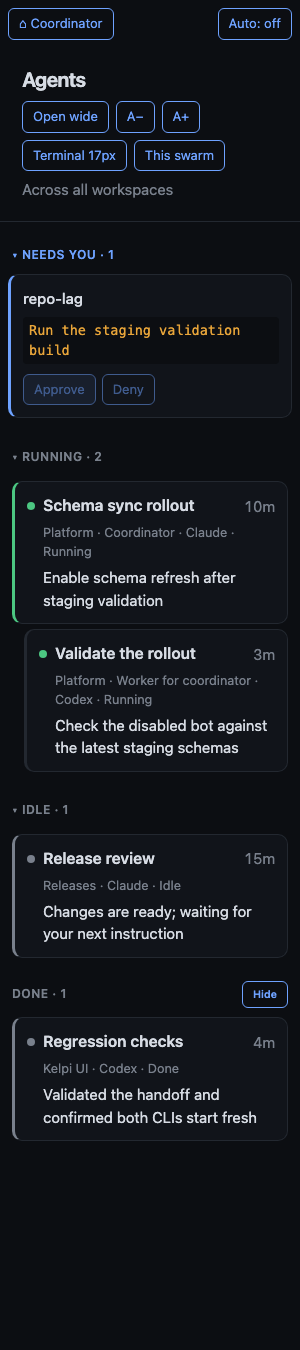
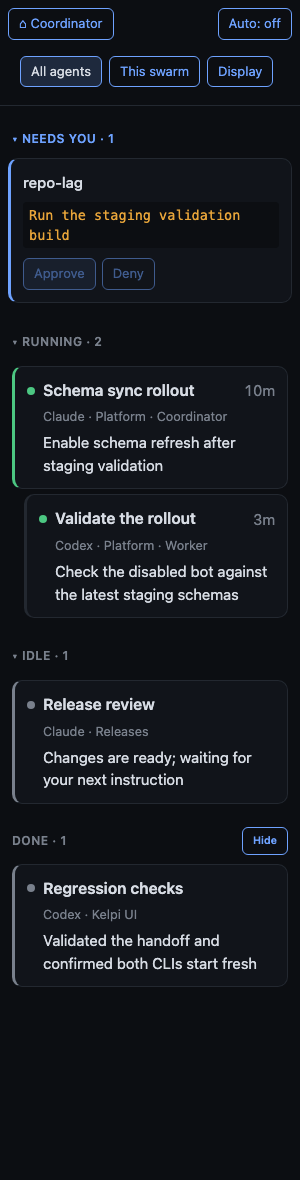
Simplify agent controls and fix panel update races

diff --git a/ui/sidebar/app.js b/ui/sidebar/app.js
@@ -11,21 +11,23 @@
 
     let textSize = 15;
     try { const saved = Number(window.localStorage?.getItem('swarm-agent-text-size')); if (saved >= 13 && saved <= 20) textSize = saved; } catch { /* storage can be unavailable */ }
+    const currentPreferences = () => L.displayPreferences({ agentTextSize: textSize, ...ui });
     const PREFERENCES_KEY = 'agents.display-preferences';
     let preferenceSave = Promise.resolve();
     function savePreferences() {
-        const prefs = { agentTextSize: textSize, directory: ui.directory !== false, collapsedSections: ui.collapsedSections || [], doneOpen: !!ui.doneOpen };
+        const prefs = currentPreferences();
         if (!api.context?.paneID && typeof api.storage?.set === 'function') {
             preferenceSave = preferenceSave.catch(() => {}).then(() => api.storage.set(PREFERENCES_KEY, prefs));
-            void preferenceSave.catch(() => {});
-        } else if (typeof api.setState === 'function') void api.setState({ ...(api.state || {}), ...prefs }).catch(() => {});
+            void preferenceSave.catch(() => setNotice('Display options apply here but could not be saved.'));
+        } else if (typeof api.setState === 'function') void api.setState({ ...(api.state || {}), ...prefs }).catch(() => setNotice('Display options apply here but could not be saved.'));
         else try { window.localStorage?.setItem('swarm-agent-text-size', String(textSize)); } catch { /* optional legacy storage */ }
     }
     const questionDrafts = Object.create(null);
     let snapshot = null, receivedAtMs = Date.now();
     let ui = L.initialUI(false);
     let notice = '', noticeTimer = null, pointerActive = false, renderPending = false, busy = false, disposed = false;
-    let wideBusy = false;
+    let wideBusy = false, widePaneID = null;
+    let releaseTimer = null;
     let focusBusy = false, lastFocusPane = null, lastFocusAt = -Infinity;
     const disposers = [];
     const guard = L.createButtonGuard();
@@ -34,6 +36,7 @@
     let autoLog = null, autoLogLoading = false;
 
     const draw = () => {
+        if (disposed) return;
         if (pointerActive) { renderPending = true; return; }
         renderPending = false;
         const nowMs = Date.now();
@@ -73,6 +76,7 @@
         }
     }
     const setNotice = text => {
+        if (disposed) return;
         notice = text;
         clearTimeout(noticeTimer);
         if (text) noticeTimer = setTimeout(() => { notice = ''; draw(); }, 8000);
@@ -103,6 +107,7 @@
     }
 
     function adopt(next) {
+        if (disposed) return;
         const accepted = L.acceptSnapshot(snapshot, next);
         if (accepted === snapshot) return;
         snapshot = accepted; receivedAtMs = Date.now();
@@ -135,7 +140,9 @@
     let activeWorkspaceID = null;
 
     async function loadState() {
+        if (disposed) return;
         const result = await api.commands.execute(`${L.CMD}get-state`, activeWorkspaceID ? { workspaceID: activeWorkspaceID } : {});
+        if (disposed) return;
         if (result && result.ok && result.snapshot) adopt(result.snapshot);
         else setNotice(L.describeResult('Load', result).message);
     }
@@ -173,32 +180,45 @@
     const handlers = {
         onTerminalSize: size => { void run('Terminal text', { command: `${L.CMD}agent-appearance`, args: { size } }); },
         onFocusAgent: async paneID => {
-            if (focusBusy || (lastFocusPane === paneID && Date.now() - lastFocusAt < 400)) return;
+            if (disposed || focusBusy || (lastFocusPane === paneID && Date.now() - lastFocusAt < 400)) return;
             focusBusy = true; lastFocusPane = paneID; lastFocusAt = Date.now();
             try {
                 if (typeof api.ui?.reveal !== 'function') { setNotice('This Kelpi cannot reveal a terminal from Agents.'); return; }
                 ui = { ...ui, selectedPaneID: paneID }; draw();
                 await api.ui.reveal(paneID);
+                if (disposed) return;
                 if (typeof api.layout?.zoom !== 'function') { setNotice('Use Kelpi’s pane zoom control to focus this terminal.'); return; }
                 let native;
                 try { native = await api.snapshot?.(); } catch { setNotice('Terminal opened; use its native zoom control because the layout could not be read.'); return; }
+                if (disposed) return;
                 const workspace = (native?.state?.workspaces || native?.workspaces || []).find(w => [...(w.panes || []), ...(w.parkedPanes || [])].some(p => p.id === paneID));
                 if (!workspace) { setNotice('Terminal opened; use its native zoom control on this Kelpi version.'); return; }
                 const zoomed = workspace.zoomedPaneID ?? workspace.zoomed_pane_id;
                 if (workspace && workspace.panes.length <= 1) { setNotice('This workspace already has one terminal.'); return; }
                 if (zoomed && zoomed !== paneID) await api.layout.zoom(zoomed);
+                if (disposed) return;
                 const result = await api.layout.zoom(paneID);
                 if (result?.zoomedPaneID === null) setNotice('Split layout restored.');
             } catch (error) { setNotice(`Focus: ${error.message}`); }
             finally { focusBusy = false; }
         },
-        onDirectory: () => { ui = { ...ui, directory: ui.directory === false }; ui = L.reconcile(ui, L.agentSnapshot(snapshot, ui)); savePreferences(); draw(); },
+        onScope: all => { if ((ui.directory !== false) === all) return; ui = { ...ui, directory: all }; ui = L.reconcile(ui, L.agentSnapshot(snapshot, ui)); savePreferences(); draw(); },
+        onDisplay: () => { ui = L.markLayout({ ...ui, displayOpen: !ui.displayOpen }, Date.now()); draw(); },
         onAgentSelect: paneID => { const row = snapshot?.agents?.find(w => w.paneID === paneID); if (row?.paneClosed) { void openWorker(paneID); return; } ui = L.setRailFocused({ ...ui, selectedPaneID: paneID }, true, Date.now()); draw(); reveal(paneID, 'Agent'); },
         onOpenWide: async () => {
-            if (wideBusy) return;
+            if (wideBusy || disposed) return;
             if (typeof api.openView !== 'function') { setNotice('Open Agents from the pane view picker for a wider view.'); return; }
             wideBusy = true;
-            try { await api.openView('local.swarm-view.rail', { ...(api.context?.workspaceID ? { workspaceID: api.context.workspaceID } : {}), focus: true, state: { agentTextSize: textSize, directory: ui.directory !== false, collapsedSections: ui.collapsedSections || [], doneOpen: !!ui.doneOpen } }); }
+            try {
+                if (widePaneID) {
+                    const host = await api.snapshot();
+                    if (disposed) return;
+                    if ((host?.state?.workspaces || []).some(workspace => [...(workspace.panes || []), ...(workspace.parkedPanes || [])].some(pane => pane.id === widePaneID))) { await api.ui.reveal(widePaneID); return; }
+                    widePaneID = null;
+                }
+                const opened = await api.openView('local.swarm-view.rail', { ...(api.context?.workspaceID ? { workspaceID: api.context.workspaceID } : {}), focus: true, state: currentPreferences() });
+                widePaneID = opened?.paneID || null;
+            }
             catch (error) { setNotice(`Open wide: ${error.message}`); }
             finally { wideBusy = false; }
         },
@@ -257,7 +277,6 @@
             ui = { ...ui, closeAsk: null }; draw(); void run('Stop', { command: `${L.CMD}close-worker`, args: { paneID } });
         },
         // ✕ "Remove": a done worker is closed in one click (nothing is running); a closed pane just leaves the rail.
-        onClose: paneID => { void run('Remove', { command: `${L.CMD}close-worker`, args: { paneID } }); },
         onAttention: (kind, item) => { if (L.layoutLocked(ui, Date.now())) return; void run(kind, L.attentionEffect(kind, item)); },
         // A card's command: click (or Enter) shows the whole thing, click again shortens it. Everything below moves, so
         // Approve and Deny are locked for a moment (the second click of a double-click lands on nothing).
@@ -313,6 +332,7 @@
         if (changed && !ui.railFocused) draw();
     }
     function onWindowBlur() {
+        releasePointer();
         ui = L.noteBlur(ui, Date.now());
         if (Number.isFinite(ui.blurAt)) { clearTimeout(blurTimer); blurTimer = setTimeout(checkBlur, L.BLUR_GRACE_MS + 10); }
     }
@@ -344,14 +364,20 @@
 
     async function boot() {
         await api.ready;
+        if (disposed) return;
         let preferences = api.state || {};
         if (!api.context?.paneID && typeof api.storage?.get === 'function') {
-            try { const saved = await api.storage.get(PREFERENCES_KEY); if (saved && typeof saved === 'object' && !Array.isArray(saved)) preferences = { ...saved, ...preferences }; } catch { /* Optional preference storage. */ }
+            let deadline;
+            try {
+                const saved = await Promise.race([api.storage.get(PREFERENCES_KEY), new Promise(resolve => { deadline = setTimeout(() => resolve(null), 1500); })]);
+                if (saved && typeof saved === 'object' && !Array.isArray(saved)) preferences = { ...saved, ...preferences };
+            } catch { /* Optional preference storage must not block the agent list. */ }
+            finally { clearTimeout(deadline); }
         }
-        if (Number.isInteger(preferences.agentTextSize) && preferences.agentTextSize >= 13 && preferences.agentTextSize <= 20) textSize = preferences.agentTextSize;
-        if (Array.isArray(preferences.collapsedSections)) ui = { ...ui, collapsedSections: preferences.collapsedSections.filter(k => ['needs', 'running', 'idle'].includes(k)) };
-        if (typeof preferences.doneOpen === 'boolean') ui = { ...ui, doneOpen: preferences.doneOpen };
-        if (typeof preferences.directory === 'boolean') ui = { ...ui, directory: preferences.directory };
+        if (disposed) return;
+        const display = L.displayPreferences({ agentTextSize: textSize, ...preferences });
+        textSize = display.agentTextSize;
+        ui = { ...ui, directory: display.directory, collapsedSections: display.collapsedSections, doneOpen: display.doneOpen };
         for (const name of SNAPSHOT_EVENTS) disposers.push(api.events.on(name, event => adopt(event.data)));
         disposers.push(api.events.on(FOCUS_EVENT, onFocusRequest));
         disposers.push(api.events.on('gap', () => { void loadState(); }));
@@ -378,12 +404,15 @@
     window.addEventListener('keydown', onKeydown);
     window.addEventListener('blur', e => { if (e.target === window) onWindowBlur(); });
     window.addEventListener('pointerdown', () => { pointerActive = true; ui = L.touch(ui, Date.now()); }, true);
-    window.addEventListener('pointermove', () => { if (ui.railFocused) ui = L.touch(ui, Date.now()); }, true);
-    const release = () => setTimeout(() => { pointerActive = false; if (renderPending) draw(); }, 0);
-    window.addEventListener('pointerup', release, true);
-    window.addEventListener('pointercancel', release, true);
+    function releasePointer() {
+        if (disposed || releaseTimer !== null) return;
+        releaseTimer = setTimeout(() => { releaseTimer = null; pointerActive = false; if (renderPending) draw(); }, 0);
+    }
+    window.addEventListener('pointermove', event => { if (pointerActive && event.buttons === 0) releasePointer(); if (ui.railFocused) ui = L.touch(ui, Date.now()); }, true);
+    for (const name of ['pointerup', 'pointercancel', 'lostpointercapture']) window.addEventListener(name, releasePointer, true);
+    document.addEventListener('visibilitychange', () => { if (document.visibilityState === 'hidden') releasePointer(); });
     const timer = setInterval(tick, 5000);
     const expiry = setInterval(expireTimers, 500);
-    window.addEventListener('pagehide', () => { disposed = true; clearInterval(timer); clearInterval(expiry); clearTimeout(unlockTimer); clearTimeout(noticeTimer); for (const off of disposers) off(); }, { once: true });
+    window.addEventListener('pagehide', () => { disposed = true; clearInterval(timer); clearInterval(expiry); clearTimeout(unlockTimer); clearTimeout(noticeTimer); clearTimeout(blurTimer); clearTimeout(releaseTimer); for (const off of disposers) off(); }, { once: true });
     void boot().catch(cause => setNotice(cause instanceof Error ? cause.message : String(cause)));
 })();

diff --git a/ui/sidebar/logic.js b/ui/sidebar/logic.js
@@ -53,6 +53,28 @@
         return base + extra;
     }
 
+    /** Only display settings belong in persisted view preferences. */
+    function displayPreferences(value = {}) {
+        if (!value || typeof value !== 'object' || Array.isArray(value)) value = {};
+        return {
+            agentTextSize: Number.isInteger(value.agentTextSize) && value.agentTextSize >= 13 && value.agentTextSize <= 20 ? value.agentTextSize : 15,
+            directory: value.directory !== false,
+            collapsedSections: [...new Set((Array.isArray(value.collapsedSections) ? value.collapsedSections : []).filter(key => ['needs', 'running', 'idle'].includes(key)))],
+            doneOpen: value.doneOpen === true,
+        };
+    }
+    function agentDetails(row) {
+        const same = (a, b) => String(a || '').trim().toLowerCase() === String(b || '').trim().toLowerCase();
+        const parts = [row.agent === 'codex' ? 'Codex' : 'Claude'];
+        if (row.workspaceName && !same(row.workspaceName, row.label)) parts.push(row.workspaceName);
+        if (row.parent) parts.push(row.parentLabel && !same(row.parentLabel, row.workspaceName) ? `Worker for ${row.parentLabel}` : 'Worker');
+        else if (row.coordinator) parts.push('Coordinator');
+        if (row.state === 'error') parts.push('Failed');
+        const task = String(row.task || '').replace(/^#+\s*/, '').trim();
+        const detail = task && !same(task, row.label) && !same(task, row.workspaceName) ? task : !row.directory ? statusLine(row) : '';
+        return { meta: parts.join(' · '), task: detail && detail !== STATE_LABEL[row.state] ? detail : '' };
+    }
+
     // ---- grouping / lists ---------------------------------------------------------------
     const activeWorkers = snapshot => snapshot.workers.filter(worker => !worker.archived);
 
@@ -689,13 +711,15 @@
         if (row.parent) node.dataset.parent = row.parent;
         const top = h(doc, 'span', 'row-top');
         top.append(h(doc, 'span', `dot dot-${!isFinished(row) && (row.activity === 'idle' || row.state === 'waiting') ? 'idle' : row.state}`));
-        const name = h(doc, 'span', 'name', `${row.label || row.paneID}${row.agent === 'codex' && !row.directory ? ' · Codex' : ''}`);
+        const name = h(doc, 'span', 'name', row.label || row.paneID);
         name.setAttribute('title', row.label || row.paneID);
         top.append(name);
-        const time = h(doc, 'span', 'time', formatElapsed(elapsedNow(row, view.receivedAtMs, view.nowMs)));
-        time.dataset.elapsedPane = row.paneID;
-        time.setAttribute('title', row.directory ? 'Time since this terminal was created' : 'Time since this worker first appeared');
-        top.append(time);
+        if (!row.directory || (row.activity === 'running' && !isFinished(row) && Number.isFinite(row.elapsedSeconds))) {
+            const time = h(doc, 'span', 'time', formatElapsed(elapsedNow(row, view.receivedAtMs, view.nowMs)));
+            time.dataset.elapsedPane = row.paneID;
+            time.setAttribute('title', row.directory ? 'Time in the current run' : 'Time since this worker started');
+            top.append(time);
+        }
         if (isFinished(row) && !row.directory && (!row.paneClosed || row.state === 'done')) {
             top.append(button(doc, 'Open result', 'btn', () => (handlers.onOpenResult || handlers.onOpen)(row.paneID)));
         } else if (!row.directory) {
@@ -718,8 +742,9 @@
         }
         if (row.directory || row.nativeNavigation) top.append(button(doc, 'Focus / split', 'btn row-hover', () => handlers.onFocusAgent?.(row.paneID), `Focus ${row.label || row.paneID} or restore its split layout`));
         node.append(top);
-        node.append(h(doc, 'div', 'agent-meta', `${row.workspaceName ? row.workspaceName + ' · ' : ''}${row.coordinator ? 'Coordinator · ' : row.parent ? `Worker for ${row.parentLabel || 'coordinator'} · ` : ''}${row.agent === 'codex' ? 'Codex' : 'Claude'} · ${row.state === 'done' ? 'Done' : row.state === 'error' ? 'Failed' : row.activity === 'idle' || row.state === 'waiting' ? 'Idle' : 'Running'}`));
-        node.append(h(doc, 'span', 'last', row.task?.replace(/^#+\s*/, '') || statusLine(row)));
+        const details = agentDetails(row);
+        node.append(h(doc, 'div', 'agent-meta', details.meta));
+        if (details.task) node.append(h(doc, 'span', 'last', details.task));
         node.addEventListener('click', () => (row.directory || (!!view.snapshot?.agents && view.ui.directory !== false) ? handlers.onAgentSelect || handlers.onSelect : handlers.onSelect)(row.paneID));
         node.addEventListener('dblclick', () => row.directory || row.nativeNavigation ? handlers.onFocusAgent?.(row.paneID) : handlers.onOpen(row.paneID));
         scopeControls(node, row.paneID);
@@ -936,18 +961,23 @@
         const list = [];
         if (snapshot) {
             const fleet = h(doc, 'div', 'fleet');
-            fleet.append(h(doc, 'div', 'fleet-title', 'Agents'));
-            fleet.append(h(doc, 'div', 'fleet-context', directory ? 'Across all workspaces' : snapshot.workspaceName || 'Current workspace'));
-            const sizes = button(doc, 'A−', 'btn', () => handlers.onTextSize?.(-1), 'Smaller agent text');
-            const larger = button(doc, 'A+', 'btn', () => handlers.onTextSize?.(1), 'Larger agent text');
-            fleet.append(button(doc, 'Open wide', 'btn', () => handlers.onOpenWide?.(), 'Open Agents in a resizable workspace pane'));
-            fleet.append(sizes, larger, button(doc, 'Terminal 17px', 'btn', () => handlers.onTerminalSize?.(17), 'Set terminal text to 17px'));
-            if (snapshot.agents) fleet.append(button(doc, directory ? 'This swarm' : 'All agents', 'btn', () => handlers.onDirectory?.(), 'Switch agent list scope'));
-            if (refs.head) refs.head.append(fleet); else list.push(fleet);
-            if (!directory && snapshot.orchestrator) {
-                const coordinator = button(doc, snapshot.orchestrator.label === 'coordinator' ? 'Coordinator' : snapshot.orchestrator.label || 'Coordinator', 'coordinator-card', () => handlers.onHome());
-                coordinator.setAttribute('title', 'Open the coordinator terminal'); list.push(coordinator);
+            if (snapshot.agents) {
+                for (const [label, all] of [['All agents', true], ['This swarm', false]]) {
+                    const scope = button(doc, label, 'btn', () => handlers.onScope?.(all), all ? 'Show agents across all workspaces' : 'Show the current swarm');
+                    scope.setAttribute('aria-pressed', directory === all ? 'true' : 'false');
+                    fleet.append(scope);
+                }
             }
+            const display = button(doc, 'Display', 'btn', () => handlers.onDisplay?.(), 'Text size and view options');
+            display.setAttribute('aria-expanded', view.ui.displayOpen ? 'true' : 'false');
+            fleet.append(display);
+            if (view.ui.displayOpen) {
+                const options = h(doc, 'div', 'display-controls');
+                options.append(button(doc, 'A−', 'btn', () => handlers.onTextSize?.(-1), 'Smaller agent text'), button(doc, 'A+', 'btn', () => handlers.onTextSize?.(1), 'Larger agent text'), button(doc, 'Terminal 17px', 'btn', () => handlers.onTerminalSize?.(17), 'Set terminal text to 17px'), button(doc, 'Open wide', 'btn', () => handlers.onOpenWide?.(), 'Open Agents in a resizable workspace pane'));
+                fleet.append(options);
+            }
+            if (refs.head) refs.head.append(fleet); else list.push(fleet);
+
         }
         list.push(...buildCodexQuestions(doc, snapshot, view.questionDrafts || {}, handlers));
         if (!snapshot) {
@@ -983,7 +1013,7 @@
     globalThis.SwarmLogic = {
         CMD,
         isSnapshot, acceptSnapshot, formatElapsed, elapsedNow,
-        agentSnapshot, sections, rows: rowsOf, requestItems, homeEffect,
+        displayPreferences, agentDetails, agentSnapshot, sections, rows: rowsOf, requestItems, homeEffect,
         initialUI, reconcile, moveSelection, itemsForPane, requestForPane, cardTitle, fromOtherSwarm, isExpanded, toggleExpanded, pruneExpanded, cardCommand,
         ARM_MS, IDLE_MS, LOCK_MS, LAYOUT_LOCK_MS, BLUR_GRACE_MS, armedNow, expire, touch, setRailFocused, noteBlur, resolveBlur, createButtonGuard,
         markLayout, layoutLocked, layoutLockRemaining, askClose, cancelClose,

diff --git a/ui/sidebar/style.css b/ui/sidebar/style.css
@@ -130,10 +130,7 @@ html, body { margin: 0; height: 100%; background: var(--bg); color: var(--fg); f
 .question-answer { box-sizing: border-box; width: 100%; color: inherit; background: var(--surface); border: 1px solid var(--line); border-radius: 4px; padding: 7px; font: inherit; }
 
 /* Agent navigation: a coordinator above its workers, with readable state groups. */
-.fleet { display: flex; flex-wrap: wrap; align-items: center; gap: 7px; padding: 18px 14px 12px; }
-.fleet-title { font-size: 1.35em; font-weight: 650; flex: 1; letter-spacing: -.03em; }
-.fleet-context { width: 100%; color: var(--dim); overflow-wrap: anywhere; order: 2; }
-.coordinator-card { display: block; width: calc(100% - 24px); margin: 2px 12px 14px; padding: 12px 14px; text-align: left; font: inherit; font-weight: 600; background: var(--hover); color: var(--fg); border: 1px solid var(--accent); border-radius: 10px; cursor: pointer; }
+.fleet { display: flex; flex-wrap: wrap; align-items: center; gap: 7px; padding: 10px 12px; }
 .agent-meta { overflow-wrap: anywhere; padding-left: 16px; color: var(--dim); font-size: .85em; }
 .sec-head { justify-content: space-between; padding-top: 18px; font-weight: 600; letter-spacing: .04em; }
 .att { border-radius: 10px; padding: 12px; gap: 8px; }
@@ -150,7 +147,6 @@ html, body { margin: 0; height: 100%; background: var(--bg); color: var(--fg); f
 .shell, .head, .list { min-width: 0; width: 100%; }
 .row { min-width: 0; grid-template-columns: minmax(0, 1fr); }
 .fleet { min-width: 0; max-width: 100%; }
-.fleet-title { flex-basis: 100%; min-width: 0; }
 .dot-idle { background: var(--dim); box-shadow: none; }
 
 .dot-done { background: var(--dim); }
@@ -167,3 +163,5 @@ html, body { margin: 0; height: 100%; background: var(--bg); color: var(--fg); f
 .row-top { flex-wrap: wrap; }
 .row-top .name { flex-basis: 55%; white-space: normal; overflow-wrap: anywhere; }
 .row-top .row-hover { margin-left: auto; }
+.display-controls { display: flex; flex-wrap: wrap; gap: 7px; width: 100%; padding-top: 4px; }
+.btn[aria-pressed="true"] { background: var(--hover); color: var(--fg); }

diff --git a/contracts/state.d.ts b/contracts/state.d.ts
@@ -161,7 +161,7 @@ export interface CodexQuestionRequest {
 export interface AgentDirectoryEntry {
     paneID: string; label: string; task: string; agent: 'claude' | 'codex';
     state: WorkerState; activity: WorkerState | 'idle'; directory: boolean;
-    parent: string | null; parentLabel?: string | null; coordinator: boolean; workspaceName: string; elapsedSeconds: number;
+    parent: string | null; parentLabel?: string | null; coordinator: boolean; workspaceName: string; elapsedSeconds: number | null;
     paneClosed?: boolean; resultPath?: string | null; stopped?: { reason: string };
 }
 

diff --git a/docs/features.md b/docs/features.md
@@ -52,8 +52,14 @@ The `manifestDir` plugin setting and `SWARM_MANIFEST_DIR` for CLI helpers can mo
 
 A larger-text activity view for Claude and Codex. All agents spans recognised terminals across workspaces, while This swarm preserves the selected coordinator's worker actions and result history. Needs you stays first; Running, Idle and expandable Done keep active and completed work separate. Visible questions and permission menus outside Auto appear as navigation-only; an ordinary idle composer is not treated as a blocked question. Worker ownership remains scoped by the existing manifest checks.
 
-Click a global row to reach its terminal, or Focus / split to toggle native pane zoom. Closed completed workers open their validated saved result. J/K and Enter follow the visible list, including expanded completed work. Text sizing and directory scope persist through Kelpi view state; Terminal 17px changes only the native font-size setting. AgentDirectoryEnabled disables the global directory without deleting any tasks or terminals. Permission checks and Auto policy are unchanged.
+Click a global row to reach its terminal, or Focus / split to toggle native pane zoom. Closed completed workers open their validated saved result. J/K and Enter follow the visible list, including expanded completed work. Text sizing, section folds and directory scope persist through plugin storage in a sidebar and view state in a pane. Display contains text sizing, Terminal 17px and Open wide. Terminal 17px changes only the native font-size setting. AgentDirectoryEnabled disables the global directory without deleting any tasks or terminals. Permission checks and Auto policy are unchanged.
 
 ### Fold activity groups and make room
 
-Click a Needs you, Running or Idle heading to fold that group. Done uses Show/Hide. Folded groups keep updating their counts, and preferences survive reopening the view. Hidden rows are skipped by keyboard navigation. Open wide puts the same Agents list in a native resizable pane without stopping any sessions. Agent names and actions wrap instead of competing for a single narrow line. The toolbar no longer shows an automatic description strip.
+Click a Needs you, Running or Idle heading to fold that group. Done uses Show/Hide. Folded groups keep updating their counts, and preferences survive reopening the view. Hidden rows are skipped by keyboard navigation. Display → Open wide puts the same Agents list in a native resizable pane without stopping any sessions. Agent names and actions wrap instead of competing for a single narrow line. The toolbar no longer shows an automatic description strip.
+
+### Less clutter and reliable updates
+
+The header has direct All agents and This swarm controls and a Display drawer for secondary options. Cards keep useful task text while omitting duplicate names, section states and generic resume banners. Ordinary session timers show the current run, never the age of an idle terminal. Workspace renames and cleared labels update immediately.
+
+A lost pointer release, window blur or hidden view releases deferred redraws. Closed views ignore delayed startup and snapshot responses. Optional display-preference reads have a deadline, and failed preference writes give feedback. Background focus reads also have a deadline; display-only Claude captures run in batches of three. These changes do not answer questions or change approval policy.

diff --git a/README.md b/README.md
@@ -125,7 +125,7 @@ Larger task cards show the workspace, tool, coordinator or worker role, task and
 
 Stopped workers and visible question or permission menus remain in Needs you. An ordinary idle Claude prompt stays Idle even when its native status says waiting for input. Closed workers from the current swarm retain their saved results.
 
-Agent text starts at 15px. **A− / A+** changes it between 13px and 20px and remembers the preference locally. **Terminal 17px** changes Kelpi's terminal font through its native appearance settings. Older hosts that cannot expose this setting direct you to Kelpi Settings instead. Permission decisions and Auto rules are unchanged.
+The header shows **All agents**, **This swarm** and **Display**. Text sizing and **Open wide** live under Display. Agent text starts at 15px. **A− / A+** changes it between 13px and 20px and remembers the preference locally. **Terminal 17px** changes Kelpi's terminal font through its native appearance settings. Older hosts that cannot expose this setting direct you to Kelpi Settings instead. Permission decisions and Auto rules are unchanged.
 
 The **Show all workspaces in Agents** setting disables the global directory. This returns navigation to the focused swarm without deleting tasks, results or terminal sessions.
 
@@ -133,4 +133,6 @@ The **Show all workspaces in Agents** setting disables the global directory. Thi
 
 Sample tasks shown above. Your sessions and worker results fill the same view.
 
-Activity headings collapse and expand independently, remember your choices, and keep their live counts visible. **Open wide** opens Agents in a resizable workspace pane. The generated top description strip has been removed; workspace brief details remain available on demand.
+Activity headings collapse and expand independently, remember your choices, and keep their live counts visible. **Display → Open wide** opens Agents in a resizable workspace pane and reuses that pane on repeated clicks. The generated top description strip has been removed; workspace brief details remain available on demand.
+
+Cards omit repeated workspace names, section states and generic session-resume banners. Ordinary sessions show a timer only while running and when Kelpi supplies a real run start time. Panel redraws recover when a pointer release is missed, and slow display-preference storage cannot leave Agents stuck at Connecting.
